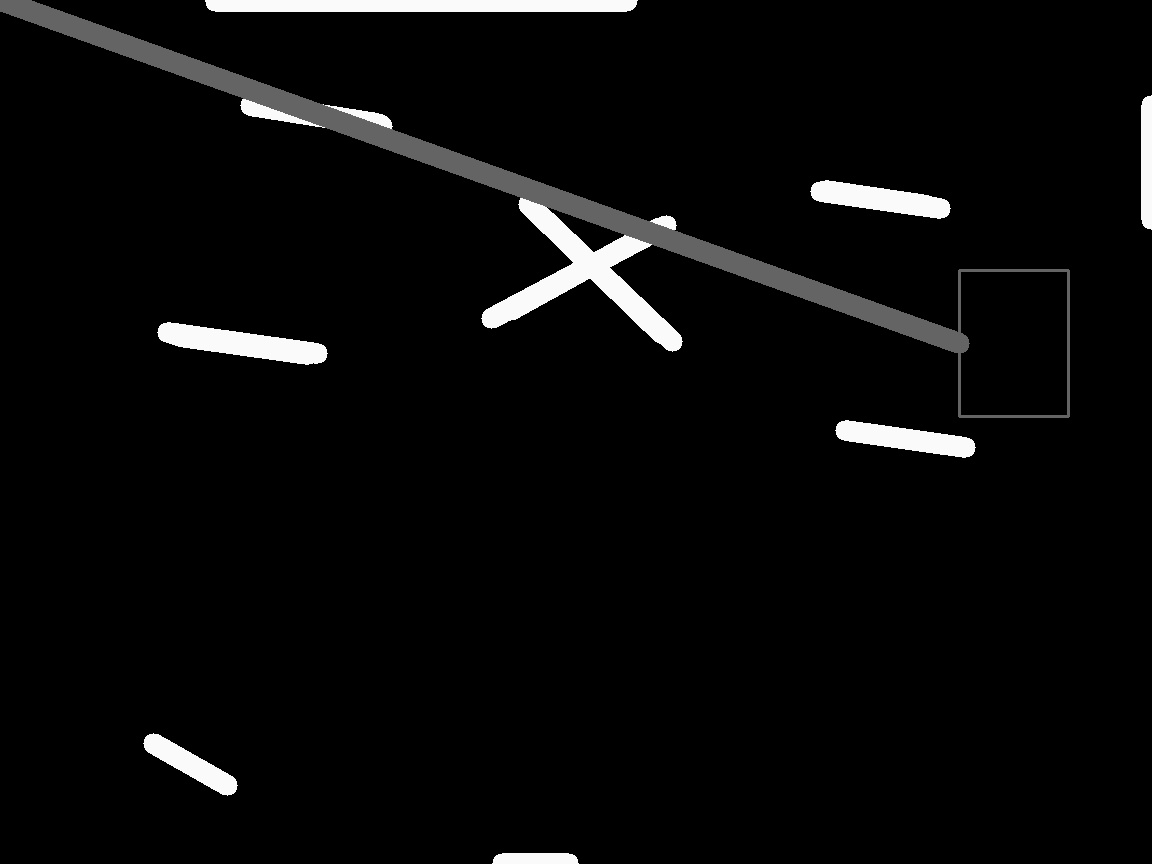
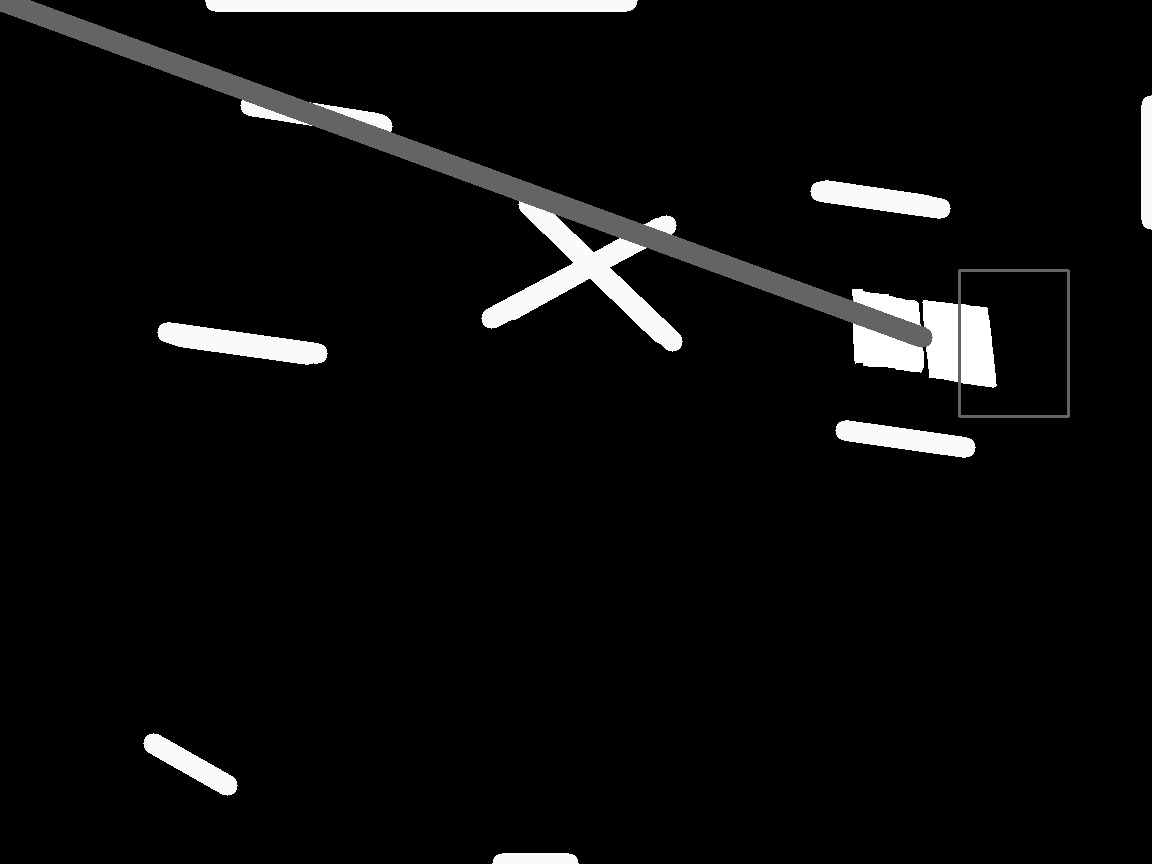
Added Car Mask to be Drawn for Debug
Note: Function  Parameters aren't updated  @EslamAsHhraf  code because they are just for debugging

Changed region(s): [[0.2812, 0.125, 0.875, 0.4688], [0.2188, 0.0938, 0.25, 0.125]]

diff --git a/Image Processing/ImageProcessingC++/ScanCar.cpp b/Image Processing/ImageProcessingC++/ScanCar.cpp
@@ -7,7 +7,7 @@
 #include "ScanTrack.h";
 //Basma :Not sure of Data Type of front_color- back_color check
 //bool find_car(int& x_center, int& y_center, int& x_f, int& y_f, int& x_b, int& y_b, Mat& image, Mat& transofmation_matrix, Scalar front_color, Scalar back_color) {
-bool find_car(int& x_center, int& y_center, int& x_f, int& y_f, int& x_b, int& y_b, Mat& image, Scalar front_color, Scalar back_color) {
+bool find_car(int& x_center, int& y_center, int& x_f, int& y_f, int& x_b, int& y_b, Mat& image, Scalar front_color, Scalar back_color,Mat&car_image_debug) {
 	/**
 	* This function is used to find car in the picture
 	*
@@ -19,6 +19,9 @@ bool find_car(int& x_center, int& y_center, int& x_f, int& y_f, int& x_b, int& y
 	* @param image: BGR img with car
 	* @param front_color: front color of the car RGB color i.e[0, 255, 0]
 	* @param back_color: back color of the car RGB color i.e[0, 255, 0]
+	* 
+	* @param Mat&front_mask:  for drawing the car just for Debug not on Eslam and Zainab //Basma
+	* @param Mat&back_mask : for drawing the car just for Debug not on Eslam and Zainab //Basma
 	*/
 
 	//1.Extract Track Paper From the Image
@@ -45,7 +48,9 @@ bool find_car(int& x_center, int& y_center, int& x_f, int& y_f, int& x_b, int& y
 	//detect front of the car
 	//image isn't modified here 😊
 	bool found;
-	found = color_center(x_f, y_f, image_rgb, front_color, "front");
+	//Debug only //Basma
+	Mat front_mask, back_mask;
+	found = color_center(x_f, y_f, image_rgb, front_color, front_mask, "front");
 	if (!found) {
 		cout << "find_car():Couldn't find front of the car" << endl;
 		return false;
@@ -53,7 +58,7 @@ bool find_car(int& x_center, int& y_center, int& x_f, int& y_f, int& x_b, int& y
 
 	//Detect back of the car
 	//image isn't modified here 😊
-	found = color_center(x_b, y_b, image_rgb, back_color, "back");
+	found = color_center(x_b, y_b, image_rgb, back_color, back_mask, "back");
 	if (!found) {
 		cout << "find_car():Couldn't find back of the car" << endl;
 		return false;
@@ -62,6 +67,11 @@ bool find_car(int& x_center, int& y_center, int& x_f, int& y_f, int& x_b, int& y
 	//car center
 	x_center = (x_f + x_b) / 2;
 	y_center = (y_f + y_b) / 2;
+
+
+
+	//Debug only //Basma
+	bitwise_or(front_mask, back_mask, car_image_debug);
 
 	//Draw Car centers [Debug]
 	//paper_img not used again 😉
@@ -74,7 +84,7 @@ bool find_car(int& x_center, int& y_center, int& x_f, int& y_f, int& x_b, int& y
 	return true;
 }
 
-void car_on_line(bool& on_line, double x_car_front, double  y_car_front, double  x_car_back, double y_car_back, Mat& lines_matrix, int threshold) {
+void car_on_line(bool& on_line, double x_car_front, double  y_car_front, double  x_car_back, double y_car_back, Mat& lines_matrix, Mat car_image_debug,int threshold) {
 	/**
 	* This function detrmines whether car is on a straight line or not
 	*
@@ -83,6 +93,7 @@ void car_on_line(bool& on_line, double x_car_front, double  y_car_front, double 
 
 	* @param x_car, y_car : Center of the Car
 	* @lines_matrix : Binary Matrix with 1's = lines
+	* @Mat car_image_debug  :for drawing the car just for Debug not on Eslam and Zainab //Basma
 	* @threshold : min sum to consider Car on line[With the uncommented part to make Region for the Car]
 	*/
 	int size_i = lines_matrix.rows;
@@ -153,13 +164,13 @@ void car_on_line(bool& on_line, double x_car_front, double  y_car_front, double 
 		//cout << endl << endl;
 	}
 
-	//Debug Rectangle to We search in
+	//Debug Rectangle to We search in +Car 
 	Mat rect_img = lines_matrix.clone();
+	bitwise_or(rect_img, car_image_debug, rect_img);
+	//Search window
 	rectangle(rect_img, Point(x_start,y_start), Point(x_end,y_end), (100, 100, 100), 2);
+	//Center of car
 	//cv::line(rect_img, Point(x_car, y_car), Point(0, 0), Scalar(100, 100, 100), 20);
-	cv::line(rect_img, Point(x_car_front, y_car_front), Point(0, 0), Scalar(100, 100, 100), 20);
-
-
 	//namedWindow("Search Window car_on_line()", WINDOW_NORMAL);
 	//imshow("Search Window car_on_line()", rect_img);
 	imwrite("./assets/TestCases/TestCase" + std::to_string(testcase) + "/results/Search Window car_on_line() from front of car.jpeg", rect_img);

diff --git a/Image Processing/ImageProcessingC++/main.cpp b/Image Processing/ImageProcessingC++/main.cpp
@@ -77,12 +77,15 @@ int main(int argc, char** argv)
 
 	bool car_found;
 	int x_center, y_center, x_f, y_f, x_b, y_b;
+
+	//For Debug ONLY //Basma
+	Mat car_image_debug;
 	//Scalar front_color(247, 85, 109);//red
 	//Scalar back_color(50, 68, 152);//blue
 	//
 	Scalar front_color(255, 0, 0);//red
 	Scalar back_color(0, 0, 255);//blue
-	car_found=find_car(x_center, y_center, x_f, y_f, x_b, y_b, car_image,front_color,back_color);
+	car_found=find_car(x_center, y_center, x_f, y_f, x_b, y_b, car_image,front_color,back_color, car_image_debug);
 
 	if (!car_found) {
 		cout << "failed to find car 😟" << endl;
@@ -106,7 +109,7 @@ int main(int argc, char** argv)
 	imwrite("./assets/TestCases/TestCase"+ std::to_string(testcase) +"/results/car_on_line.jpeg", draw_car_online);
 	//waitKey(0);
 
-	car_on_line(on_line, x_f, y_f, x_b, y_b, image_lines,100);
+	car_on_line(on_line, x_f, y_f, x_b, y_b, image_lines, car_image_debug,100);
 	if (!on_line) {
 		cout << "Car isn't on a straight line" << endl;
 		return 0;

diff --git a/Image Processing/ImageProcessingC++/utils.cpp b/Image Processing/ImageProcessingC++/utils.cpp
@@ -165,7 +165,7 @@ Mat thin_image(Mat image) {
 }
 
 
-bool color_center(int& x,int &y,Mat image, Scalar color,string name) {
+bool color_center(int& x,int &y,Mat image, Scalar color, Mat& colormask,string name) {
 	/**
 	* Get Center and Draw Rectangle Around Largest Contour of a given Color
 	* 
@@ -175,6 +175,7 @@ bool color_center(int& x,int &y,Mat image, Scalar color,string name) {
 	* @param image: RGB image with car on the track
 	* @param color : RGB color i.e[0, 255, 0]
 	* @param name: String for the flag of saved image [For Debug Optional]
+	* @param Mat&colormask:  for drawing the car just for Debug not on Eslam and Zainab //Basma
 	*
 	*/
 
@@ -250,6 +251,10 @@ bool color_center(int& x,int &y,Mat image, Scalar color,string name) {
 	/*Moments M = moments(biggestContour);
 	x = int(M.m10 / M.m00);
 	y = int(M.m01 / M.m00);*/
+
+
+	//Debug Basma
+	colormask = mask;
 
 	return true;
 }

diff --git a/Image Processing/ImageProcessingC++/ScanCar.h b/Image Processing/ImageProcessingC++/ScanCar.h
@@ -8,7 +8,7 @@
 using namespace cv;
 using namespace std;
 
-bool find_car(int& x_center, int& y_center, int& x_f, int& y_f, int& x_b, int& y_b, Mat& image, Scalar front_color, Scalar back_color);
-void car_on_line(bool& on_line, double x_car_front, double  y_car_front, double  x_car_back, double y_car_back, Mat& lines_matrix, Mat car_image_debug, int threshold = 100);
+bool find_car(int& x_center, int& y_center, int& x_f, int& y_f, int& x_b, int& y_b, Mat& image, Scalar front_color, Scalar back_color, Mat& car_image_debug);
+void car_on_line(bool& on_line, double x_car_front, double  y_car_front, double  x_car_back, double y_car_back, Mat& lines_matrix, Mat car_image_debug,int threshold = 100);
 //bool increase_decrease_speed(Mat& draw,double x_car_front, double  y_car_front, double  x_car_back, double y_car_back, Vec4i line, double dist_threshold);
 #endif

diff --git a/Image Processing/ImageProcessingC++/utils.h b/Image Processing/ImageProcessingC++/utils.h
@@ -16,7 +16,7 @@ bool extract_paper(Mat& warped_image,Mat& img_bgr,string name="");
 
 Mat thin_image(Mat image);
 
-bool color_center(int& x, int& y, Mat image, Scalar color, string name="");
+bool color_center(int& x, int& y, Mat image, Scalar color, Mat& colormask,string name="");
 bool color_mask(Mat& mask, Mat& masked_image, Mat image, Scalar color);
 //bool color_range(Scalar& lower_range, Scalar& upper_range, Scalar color);
 
